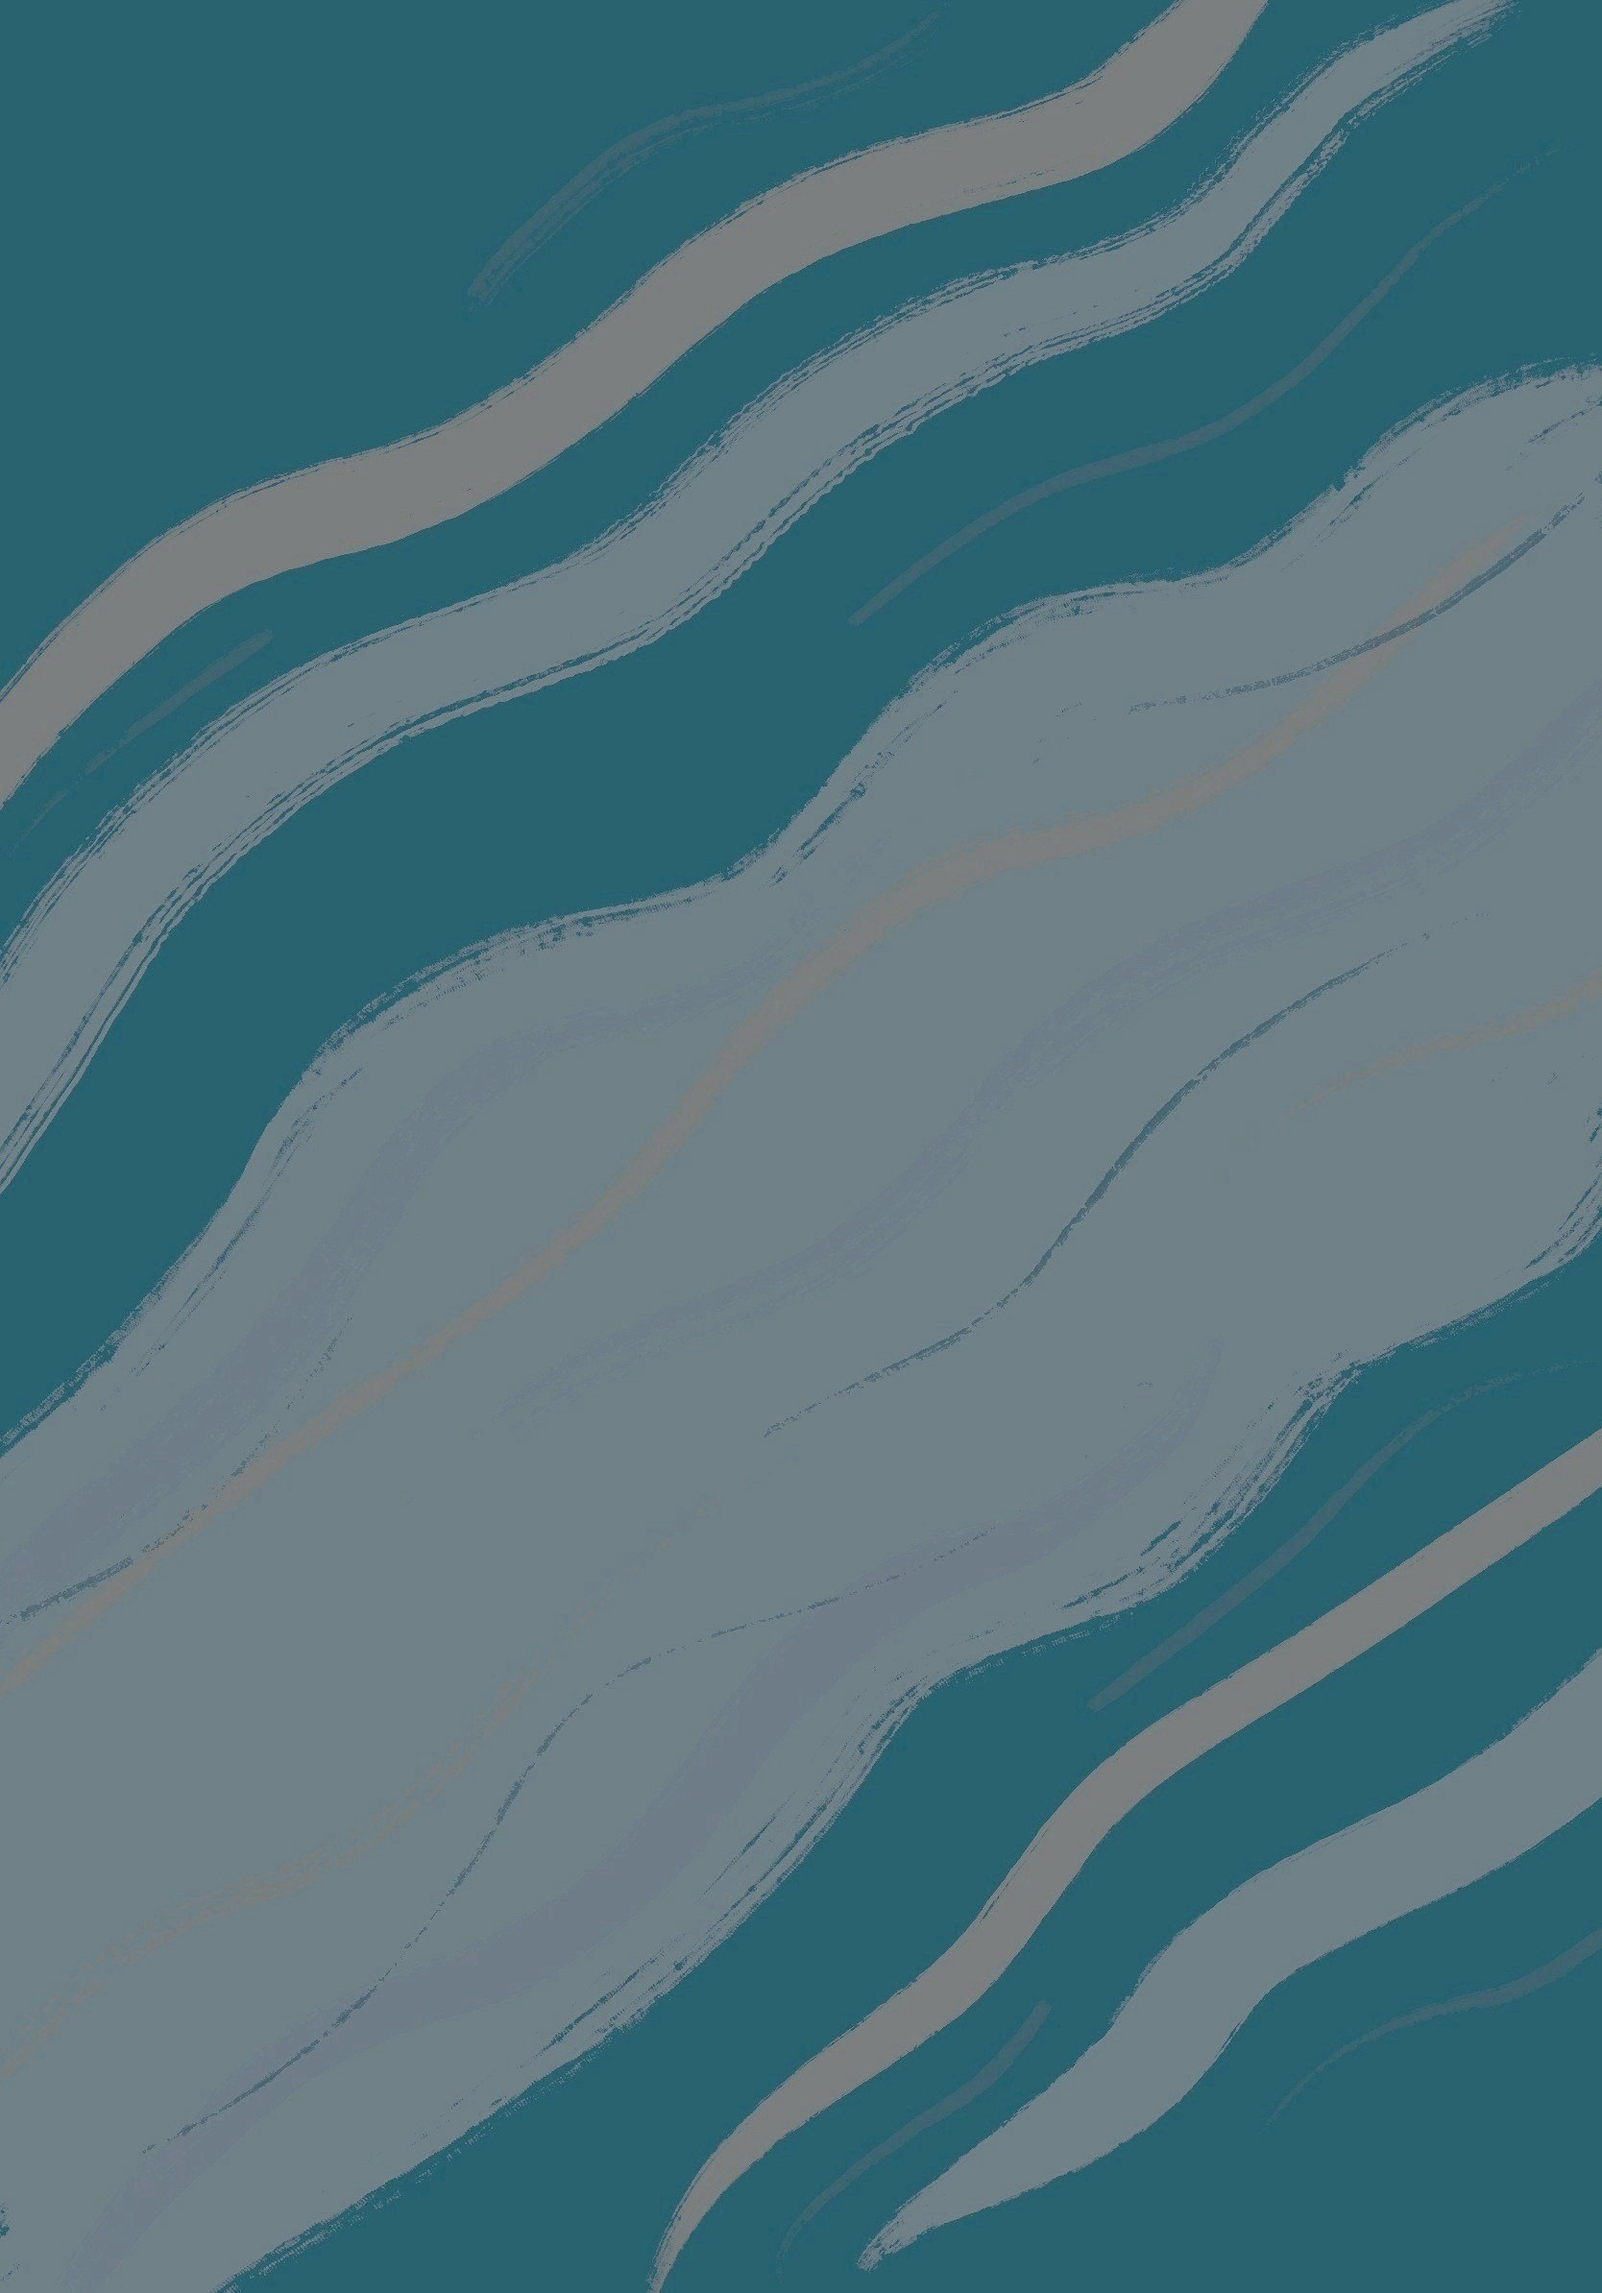
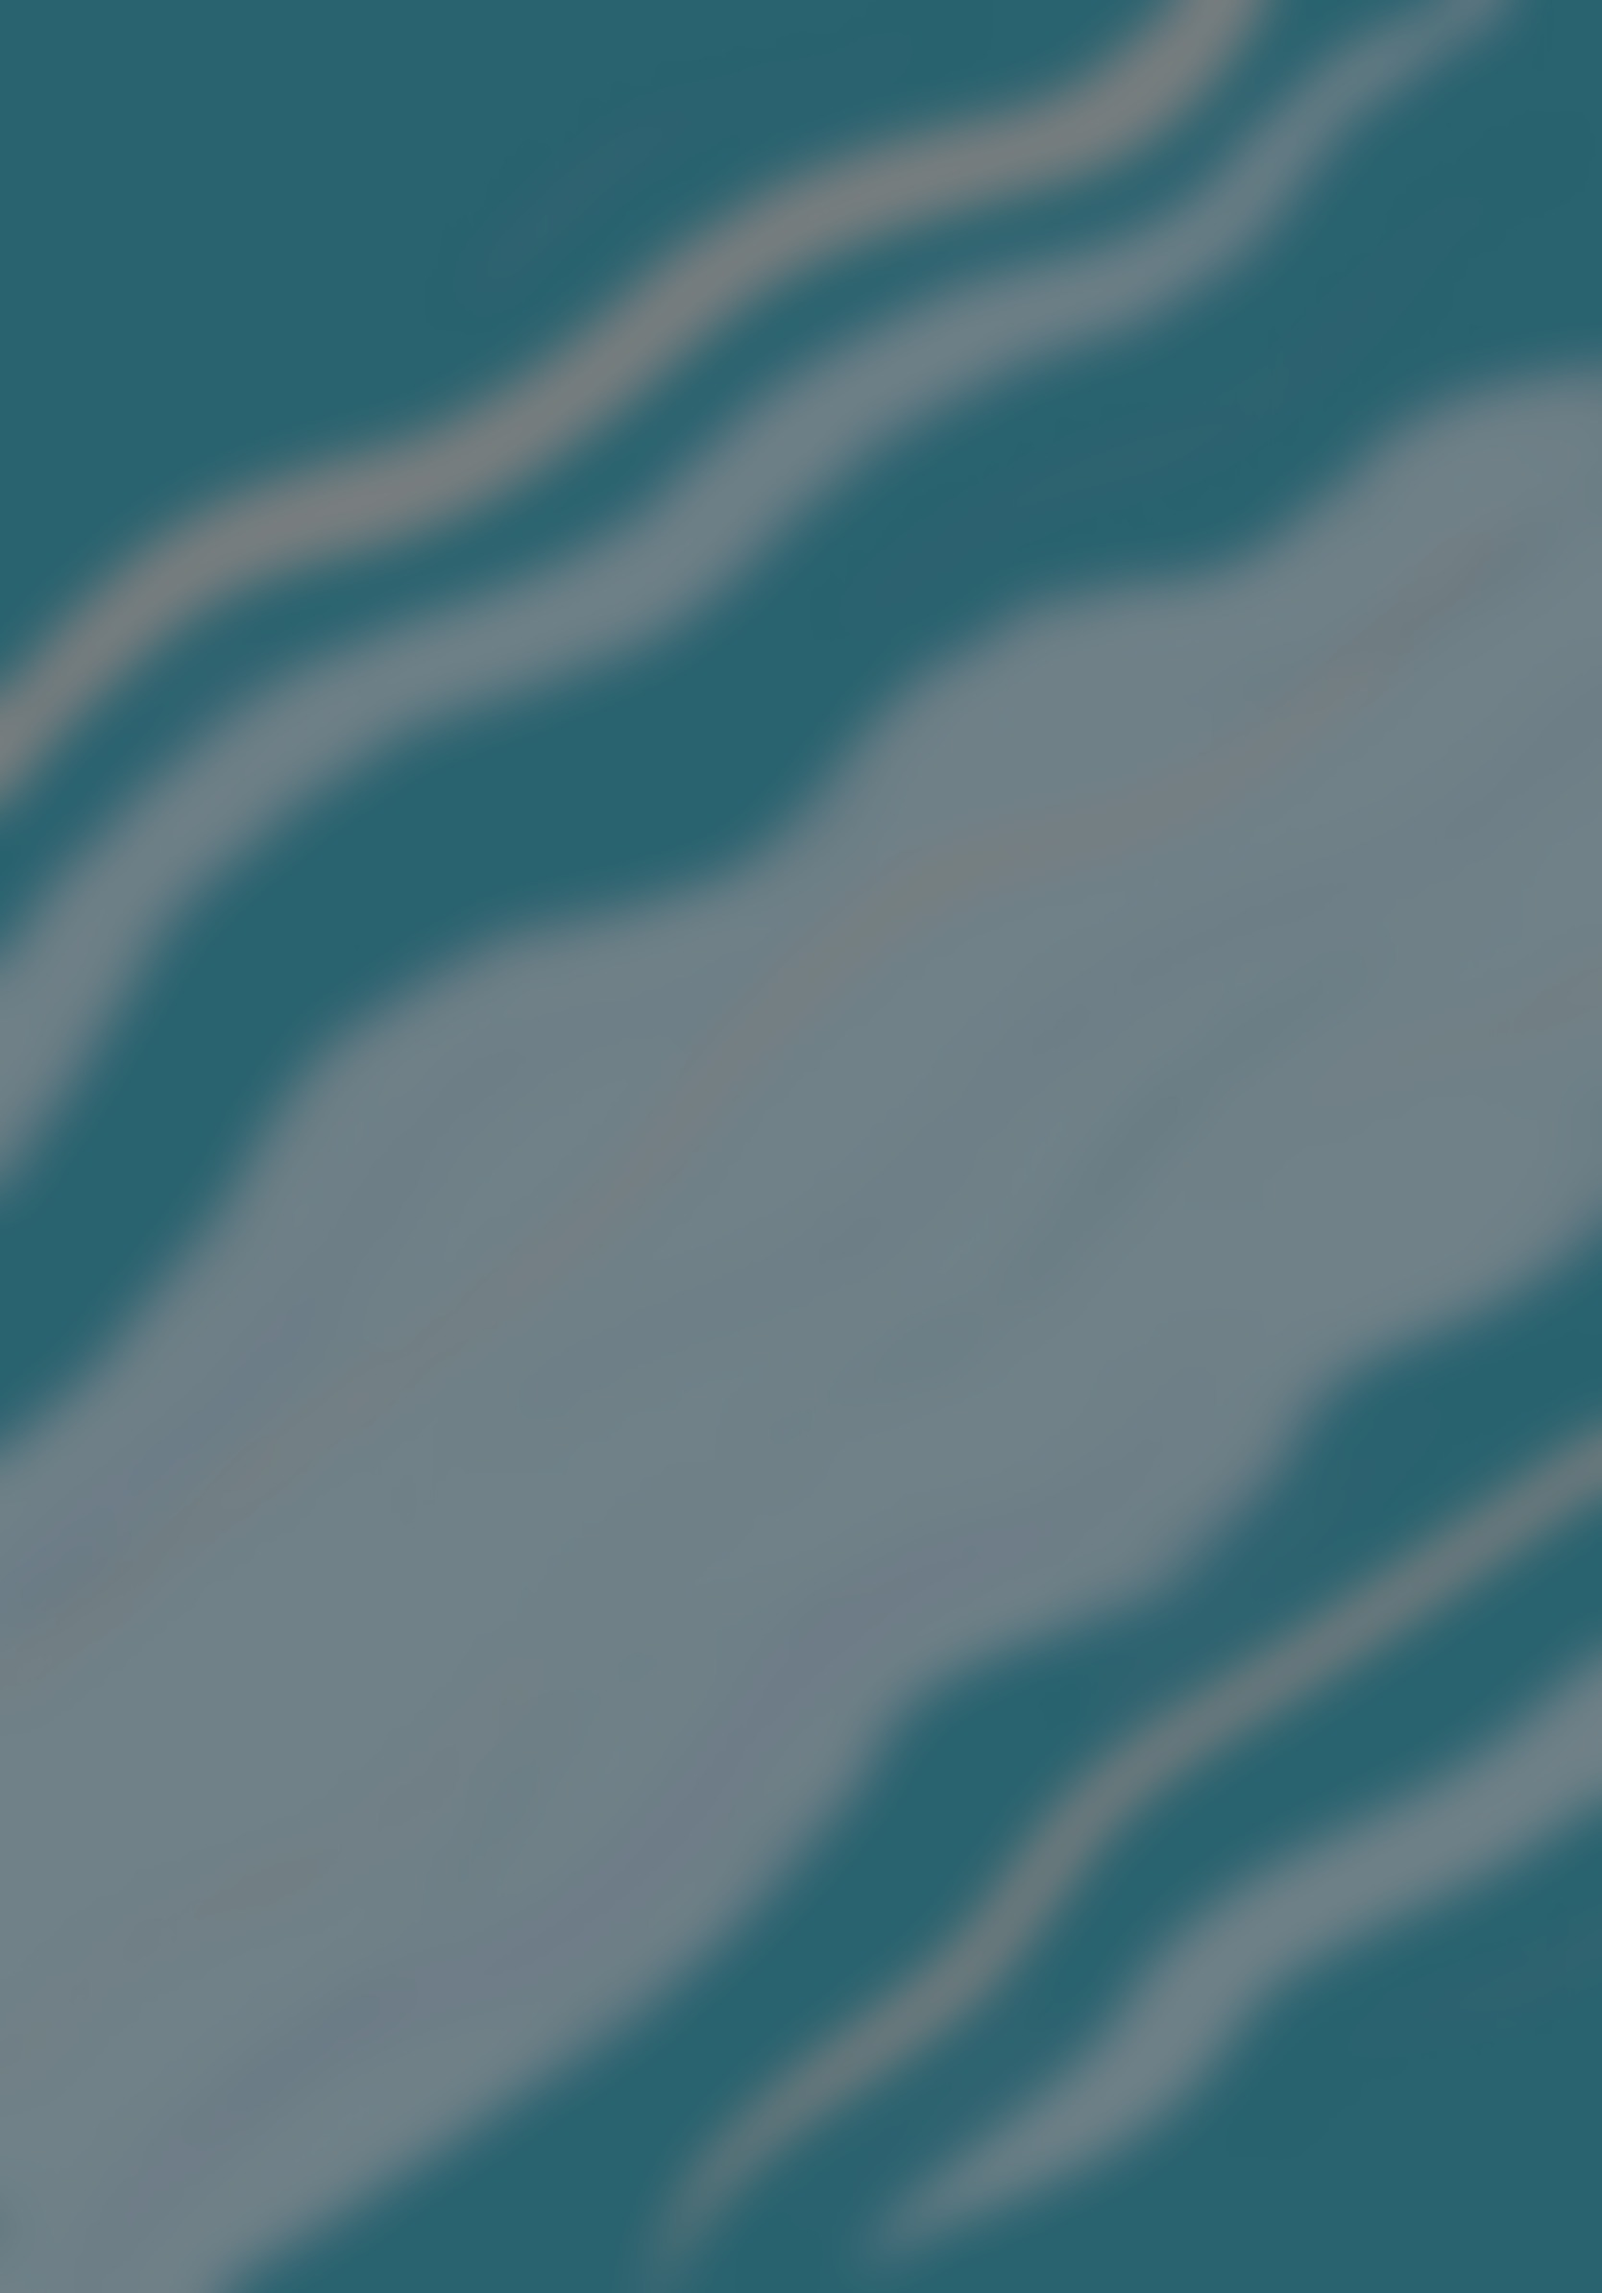
Versió 0.0.3
Primer de tot a nivell visual canviat el fons i amb aquest la navbar ara en teoria tot es més bonic!

També feta la pagina de Favorits! Fent així que puguis guardar i emmagatzemar llocs preferits! Com a conseqüencia, fet que resize_image_url sigui un def general i no del if concret per així tenir la posibilitat de resizear les imatges de favs.

diff --git a/main.py b/main.py
@@ -146,18 +146,18 @@ async def main(page: Page):
     page.theme = Theme(font_family="Helvetica Neue")
     gl = Geolocator()
     page.overlay.append(gl)
-
-
     page.update()
     page.session.set("categories_sel", [])
     page.session.set("categories_sel_antic",[])
+    page.session.set("dadesLlocs", [])
     await page.client_storage.set_async("loc_visited", [])
     await page.client_storage.set_async("radius_sel", 1000)
     await page.client_storage.set_async("sort_sel", "RELEVANCE")
     await page.client_storage.set_async("preu", 0)
     await gl.request_permission_async()
     await location.handle_permission(gl,AlertDialog, page, Text,TextButton,MainAxisAlignment)
-
+    await page.client_storage.set_async("saved_cards", [])
+    await page.client_storage.set_async("saved_cards_images", [])
     def view_pop(event): #Per anar enrere 
         #print("view pop:", event.view) #Això només imprimeix en terminal, de normal no cal
         if page.route == '/categories' or page.route == '/info':
@@ -170,11 +170,32 @@ async def main(page: Page):
         #  page.go(top_view.route)
 
     async def on_change_page(e):
+
         page.controls.clear() if page.route != '/info' else None
         #page.add(gl)
         async def tornar(e):
             page.go("/")
-        
+        def resize_image_url(url, width, height):
+                        # Part invariable de l'URL
+                        invariant_part = "https://fastly.4sqi.net/img/general/"
+                        
+                        # Busca la posició on comença la part variable (les dimensions i la resta de l'URL)
+                        start_index = len(invariant_part)
+                        
+                        # Obté la part variable de l'URL
+                        variable_part = url[start_index:]
+                        
+                        # Busca la primera part que coincideix amb el patró 'widthxheight'
+                        dimensions, remainder = variable_part.split('/', 1)
+                        
+                        # Substitueix les dimensions per les noves
+                        new_dimensions = f'{width}x{height}'
+                        
+                        # Construeix la nova URL
+                        new_url = invariant_part + new_dimensions + '/' + remainder
+                        
+                        return new_url
+                    
         if page.route == '/':
             print("Seleccionat llocs!")
             selected_llocs.offset = transform.Offset(0,0)
@@ -186,17 +207,25 @@ async def main(page: Page):
             cards[0].opacity = 1
    
         if page.route == '/favorits':
+            saved_cards_images = await page.client_storage.get_async("saved_cards_images")   
+            saved_cards = await page.client_storage.get_async("saved_cards")
             print("Favorits seleccionat")
             images_saved.controls = []
             page.add(images_saved)
             if len(saved_cards) > 0:
                 for i in range(len(saved_cards)):
-                    images_saved.controls.append(
-                        Container(content=Column(spacing=0.5,horizontal_alignment="center", controls=[Image(
-                            src=f"https://picsum.photos/150/150?{i}",
-                            border_radius=10), Text(f"{i}", text_align="center")
-                    ])))
-                    page.update()
+                    if saved_cards_images[i] != []:
+                        url = saved_cards_images[i]
+                        new_url = resize_image_url(url, 150, 150)
+                        images_saved.controls.append(
+                            Container(content=Column(spacing=0.5,horizontal_alignment="center", controls=[Image(
+                                src=new_url,
+                                border_radius=10), Text(f"{saved_cards[i]['name']}", text_align="center")
+                        ])))
+                        images_saved.controls.reverse()
+                        page.update()
+                    else:
+                        print("No té foto") #! Per acabar
             else:
                 page.add(SafeArea(content=Text("No tens favorits!", text_align="center", height=page.height)))
 
@@ -205,27 +234,6 @@ async def main(page: Page):
             print("Configuració seleccionada")
 
         if page.route == '/configuracio/historial': 
-            def resize_image_url(url, width, height):
-                # Part invariable de l'URL
-                invariant_part = "https://fastly.4sqi.net/img/general/"
-                
-                # Busca la posició on comença la part variable (les dimensions i la resta de l'URL)
-                start_index = len(invariant_part)
-                
-                # Obté la part variable de l'URL
-                variable_part = url[start_index:]
-                
-                # Busca la primera part que coincideix amb el patró 'widthxheight'
-                dimensions, remainder = variable_part.split('/', 1)
-                
-                # Substitueix les dimensions per les noves
-                new_dimensions = f'{width}x{height}'
-                
-                # Construeix la nova URL
-                new_url = invariant_part + new_dimensions + '/' + remainder
-                
-                return new_url
-            
             loc_visited = await page.client_storage.get_async("loc_visited")  
             loc_visited_photos = await page.client_storage.get_async("loc_visited_photos")  
             loc_visited = loc_visited[:index_photo_stack]  #! Està malament, ja que només posa els 25 actuals.
@@ -245,7 +253,7 @@ async def main(page: Page):
                         ])))
                         page.update()
                     else:
-                        print("No té foto")
+                        print("No té foto") #! Per acabar
             else:
                 page.views.append(View(controls=[AppBar(title=Text("Historial de Llocs"), bgcolor="#AAD7D9",adaptive=True,),SafeArea(content=Text("No has explorat cap lloc encara!", text_align="center", height=page.height))], bgcolor = "#FFFCF1"))
         
@@ -447,6 +455,15 @@ async def main(page: Page):
         await scale_next_card()
     
     async def guarda(e):
+        global index_photo_stack
+        saved_cards = await page.client_storage.get_async("saved_cards")
+        dadesLlocs = page.session.get("dadesLlocs")
+        images_request = page.session.get("images_request")
+        saved_cards_images = await page.client_storage.get_async("saved_cards_images")   
+        saved_cards.append(dadesLlocs[index_photo_stack])
+        saved_cards_images.append(images_request[index_photo_stack][0]) if images_request[index_photo_stack] != [] else saved_cards_images.append(images_request[index_photo_stack])
+        saved_cards = await page.client_storage.set_async("saved_cards", saved_cards)
+        saved_cards_images = await page.client_storage.set_async("saved_cards_images", saved_cards_images)
         cards[0].offset = transform.Offset(4, 0)  
         page.update()
         await asyncio.sleep(0.15)  
@@ -524,6 +541,7 @@ async def main(page: Page):
         "Menjar": [17057]
 
     }
+    
     def categ_check_sel(e):
         categories_sel = page.session.get("categories_sel")
         if e.control.value == True:
@@ -679,7 +697,6 @@ async def main(page: Page):
                 ElevatedButton(content=Text("Guarda!",size=size_botons, theme_style=TextThemeStyle.LABEL_LARGE), on_click=guarda, bgcolor="#aad9c4",color="black",col=4), 
     ]) 
     stack_cards = Stack(alignment=alignment.center, offset=(0,0), expand = True)
-    saved_cards = [1,2,3,4,5,6,7,8,9,10,11,12,13,14,15,16,17,18,19,20,21,22,23,24,25] # Suposem que tenim ja la variable i la deixem 
     images_saved = GridView(
         expand=True,
         height=page.height * 0.89, 
@@ -804,7 +821,7 @@ async def main(page: Page):
     selected_configuracio = Icon(name=icons.SETTINGS_ROUNDED, color=colors.BLACK, rotate=transform.Rotate(0, alignment=alignment.center), animate_rotation=animation.Animation(duration=1000, curve="bounceOut"))
     
     page.navigation_bar=NavigationBar(
-        bgcolor = "#7cb7b9",
+        bgcolor = "#6fa4a6",
         selected_index = 1,
         indicator_color = "#FBF9F1",
         on_change=changetab,
@@ -869,6 +886,7 @@ async def main(page: Page):
         print("Preu:", preu)
         
         if len(cards) == 0 or canvi == True:
+                page.session.set("dadesLlocs", [])
                 #* Demanem les dades 
                 print("index_photo_Stack: ",index_photo_stack)
                 if canvi == True:
@@ -885,11 +903,15 @@ async def main(page: Page):
                 llocs = Llocs(p.latitude,p.longitude,radius_sel,25,loc_visited,categories_sel,sort_sel, preu) #! Problema, dona sempre el mateix BUG-5
 
                 dadesLlocs, loc_visited = llocs.dades()
+                page.session.set("dadesLlocs", dadesLlocs)
                 await page.client_storage.set_async("loc_visited", loc_visited)
 
                 if dadesLlocs == []:
                     print("Això no ha de passar!") 
                 images_request = llocs.photos()
+                page.session.set("images_request", images_request)
+                loc_visited_photos = await page.client_storage.get_async("loc_visited_photos")
+                loc_visited_photos.append(images_request)
                 await page.client_storage.set_async("loc_visited_photos", images_request)
                 # print(images_request)
                 categories = llocs.categories()
@@ -1112,7 +1134,7 @@ async def main(page: Page):
                     
                     print("Carta creada")
                     carta = Container(
-                            image_src = "src/fons.jpg", #! Canviar-la a l'assets
+                            image_src = "src/fons.jpg",
                             image_fit = "FILL",
                             offset=(0,0),
                             border_radius=15, 
